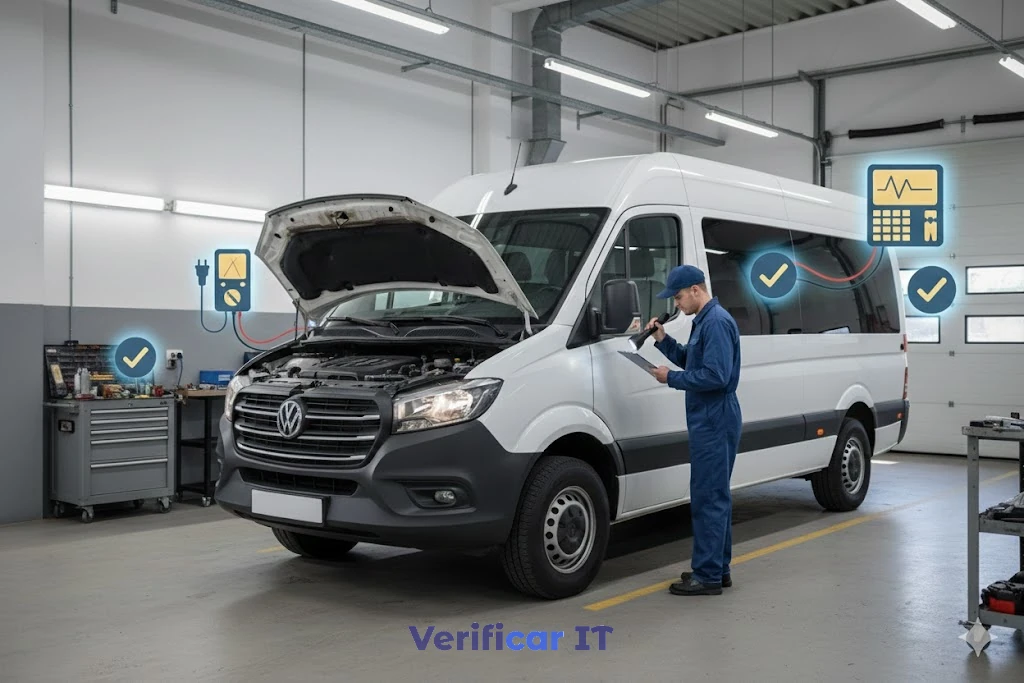
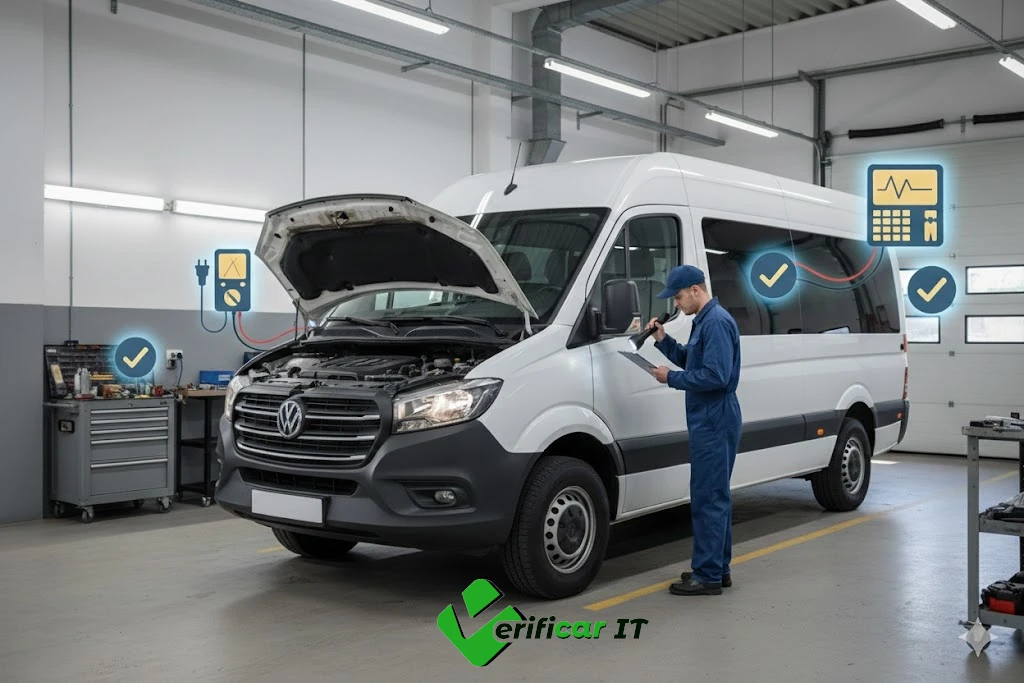
verificar IT green

Changed region(s): [[0.4062, 0.8302, 0.625, 0.9839]]

diff --git a/src/app/pages/login/login.html b/src/app/pages/login/login.html
@@ -7,7 +7,7 @@
           <div class="p-4 p-sm-5 maxw-450px m-auto">
             <div class="mb-4 text-center">
               <a routerLink="/home" aria-label="NexLink logo">
-                <img class="visible-light" style="max-width: 200px;" src="../assets/images/verificar_logp.png" alt="NexLink logo">
+                <img class="visible-light" style="max-width: 320px;" src="../assets/images/verificar_logp.png" alt="NexLink logo">
               </a>
             </div>
             <div class="text-center mb-5">

diff --git a/public/assets/css/styles.css b/public/assets/css/styles.css
@@ -56,7 +56,7 @@ body[data-bs-theme=dark] {
   --bs-gray-700: #495057;
   --bs-gray-800: #343a40;
   --bs-gray-900: #212529;
-  --bs-primary: #2828d3;
+  --bs-primary: #24ab24;
   --bs-secondary: #29294B;
   --bs-success: #009966;
   --bs-info: #7008E7;
